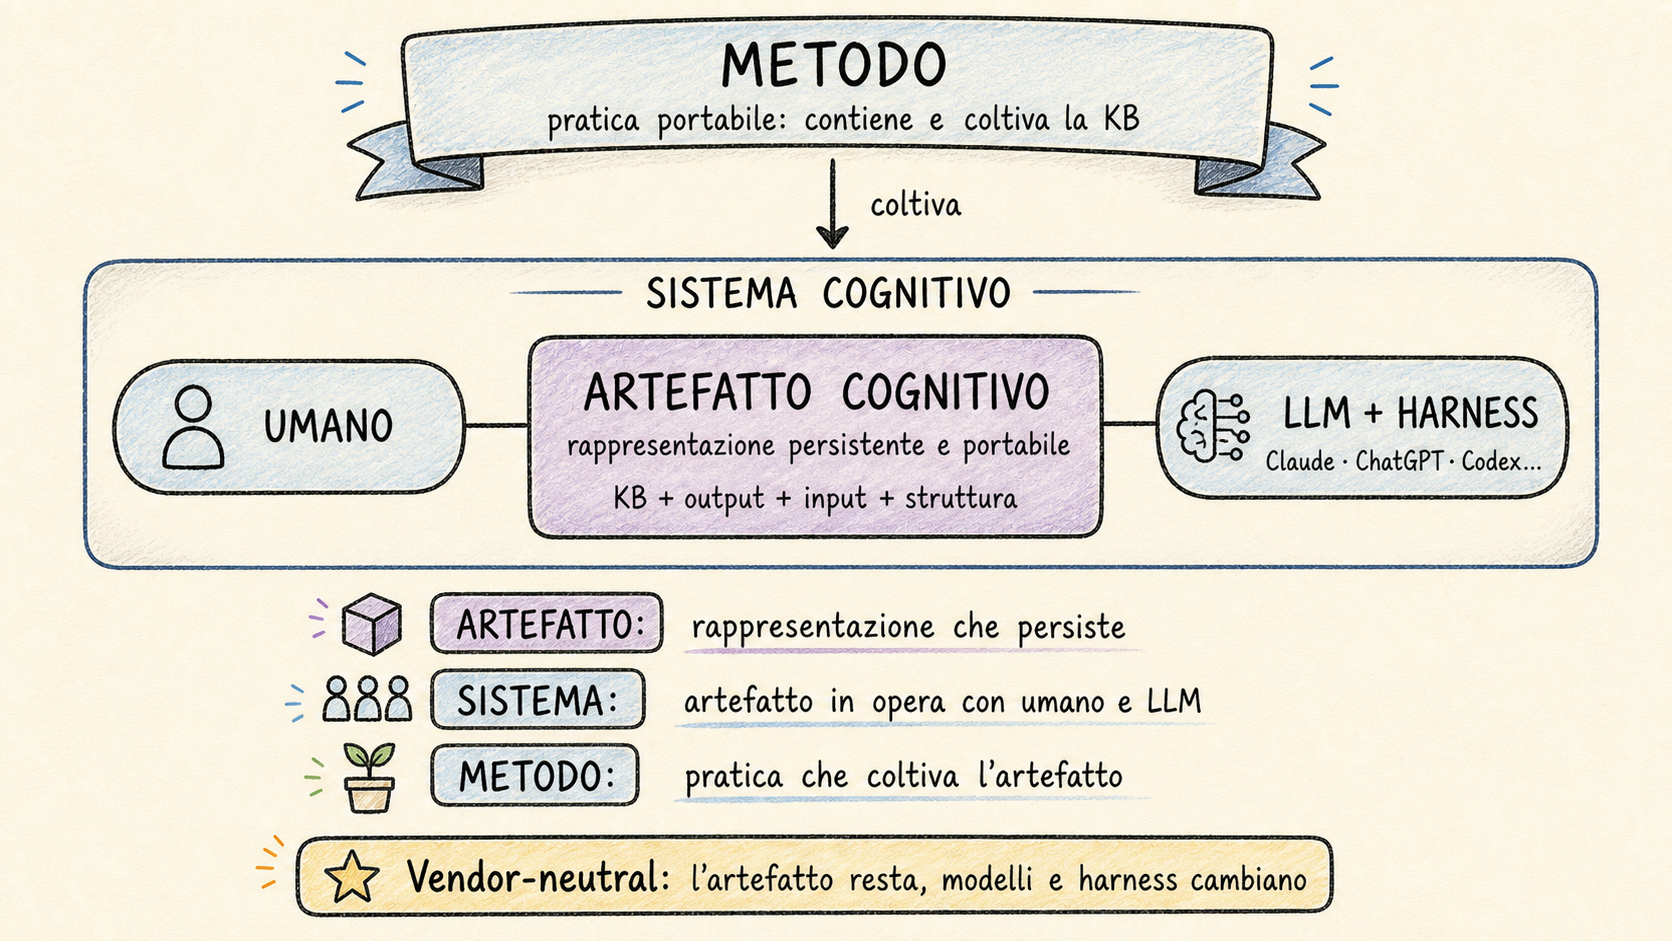
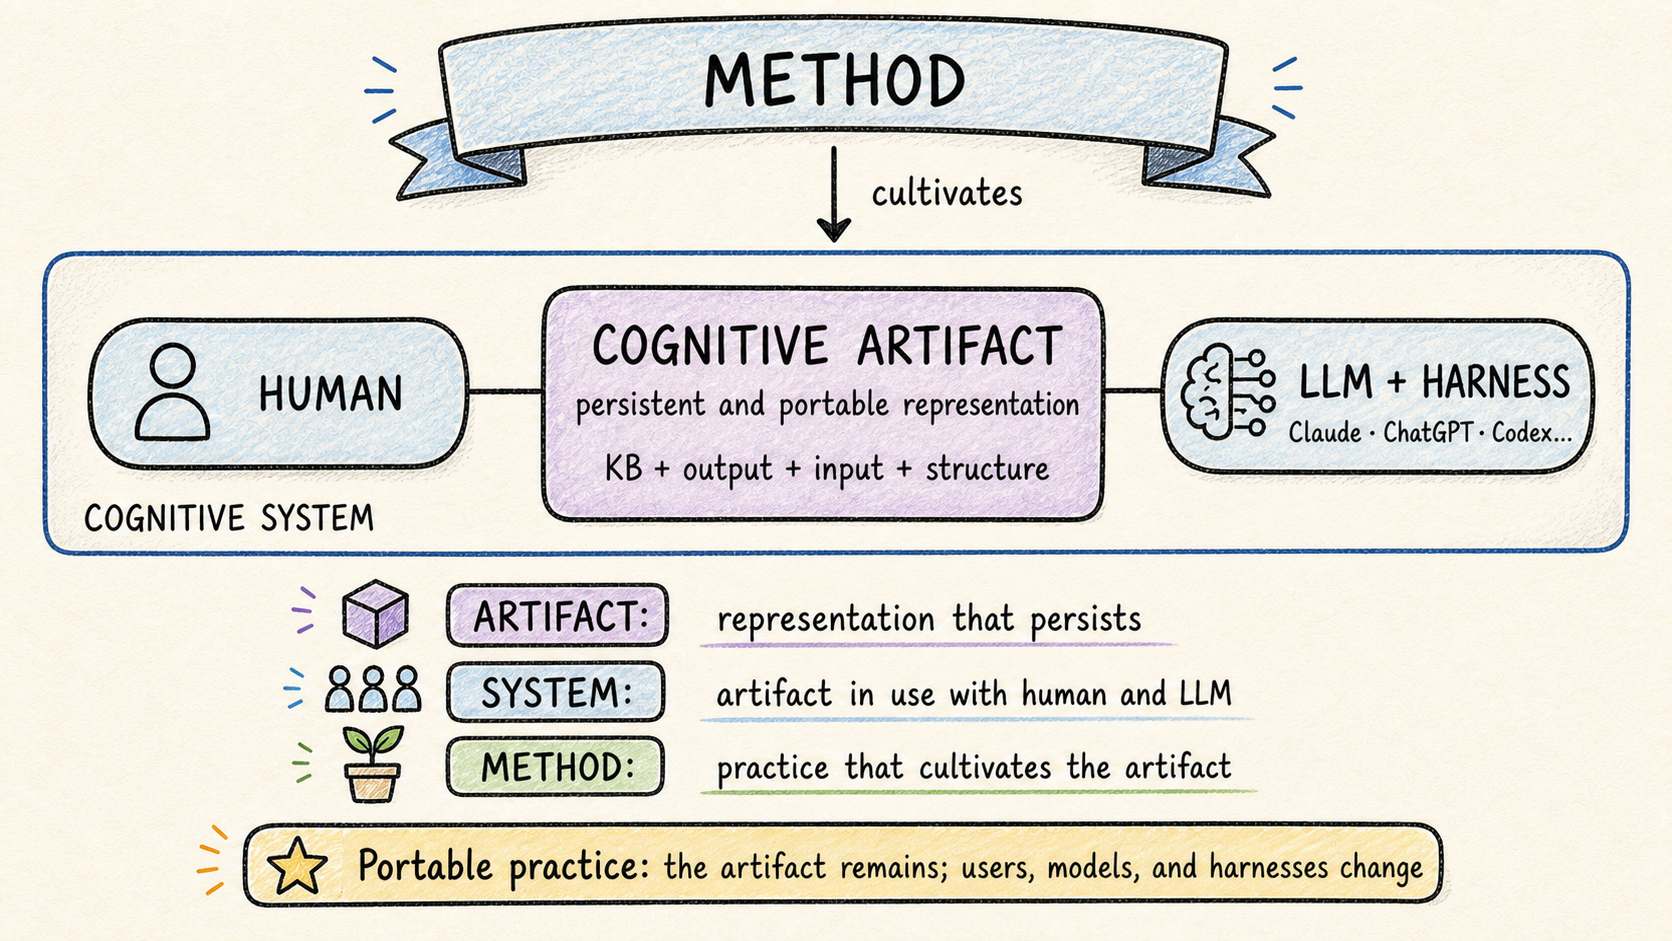
refactor(presentation): il deck diventa vista Interpretazioni

Changed region(s): [[0.0, 0.0, 0.9952, 0.9862]]

diff --git a/presentation/interpretations.html b/presentation/interpretations.html
@@ -70,7 +70,7 @@
       href="https://cdn.jsdelivr.net/npm/reveal.js@5.1.0/dist/theme/white.css"
       id="theme"
     />
-    <link rel="stylesheet" href="assets/deck.css" />
+    <link rel="stylesheet" href="assets/interpretations.css" />
   </head>
   <body>
     <div class="reveal">
@@ -122,6 +122,34 @@
             Il ciclo dell’azione (Norman)
           </h2>
         </section>
+        <section id="dal-ciclo-di-norman-al-metodo" class="slide level2">
+          <h2>Dal ciclo di Norman al metodo</h2>
+          <ul>
+            <li>
+              i poli non si eseguono: lo <strong>scopo</strong> motiva, il
+              <strong>mondo</strong> è ritagliato dall’artefatto per rilevanza
+            </li>
+            <li>
+              sei atti, sei superfici versionate: piani, compiti, prescrizioni ·
+              percezioni, interpretazioni, confronti
+            </li>
+            <li>
+              a ogni stadio l’umano ispeziona e l’LLM rientra senza ricostruire
+            </li>
+            <li>
+              superfici versionate: più trasparenza, più controllo, meno
+              ricostruzione implicita
+            </li>
+            <li>
+              il riflessivo da solo non muove: l’output deve arrivare al
+              viscerale
+            </li>
+            <li>
+              il viscerale da solo è cieco e deve avere il riflessivo che lo
+              guida
+            </li>
+          </ul>
+        </section>
         <section
           id="la-rilettura-del-metodo"
           class="slide level2 img"
@@ -138,24 +166,13 @@
             La rilettura del metodo
           </h2>
         </section>
-        <section id="dal-ciclo-di-norman-al-metodo" class="slide level2">
-          <h2>Dal ciclo di Norman al metodo</h2>
+        <section id="lannidamento-dei-due-cicli" class="slide level2">
+          <h2>L’annidamento dei due cicli</h2>
           <ul>
-            <li>
-              i poli non si eseguono: lo <strong>scopo</strong> motiva, il
-              <strong>mondo</strong> è ritagliato dall’artefatto per rilevanza
-            </li>
-            <li>
-              sei atti, sei superfici versionate: piani, compiti, prescrizioni ·
-              percezioni, interpretazioni, confronti
-            </li>
-            <li>
-              a ogni stadio l’umano ispeziona e l’LLM rientra senza ricostruire
-            </li>
-            <li>
-              il riflessivo da solo non muove: l’output deve arrivare al
-              viscerale — <em>attractive things work better</em>
-            </li>
+            <li>L’esecuzione è l’output dell’artefatto</li>
+            <li>La valutazione è l’input dell’artefatto</li>
+            <li>il ciclo di sviluppo costruisce l’artefatto</li>
+            <li>il ciclo runtime agisce invece sul dominio</li>
           </ul>
         </section>
         <section
@@ -174,25 +191,6 @@
             Cicli annidati
           </h2>
         </section>
-        <section id="le-quattro-dimensioni" class="slide level2">
-          <h2>Le quattro dimensioni</h2>
-          <ul>
-            <li><strong>agente</strong> — umano · LLM</li>
-            <li>
-              <strong>annidamento</strong> — sviluppo (costruisce l’artefatto) ·
-              runtime (agisce sul dominio)
-            </li>
-            <li><strong>livello</strong> — macchina · decisione · azione</li>
-            <li>
-              <strong>lato del cappio</strong> — output / esecuzione · input /
-              valutazione
-            </li>
-          </ul>
-          <p>
-            La matrice è la lente per confrontare i domini: cosa c’è, cosa manca
-            perché non serve, cosa manca ma servirebbe.
-          </p>
-        </section>
         <section
           id="sviluppo-del-metodo"
           class="slide level2 img"
@@ -209,13 +207,18 @@
             Sviluppo del metodo
           </h2>
         </section>
-        <section id="il-deck-rivela-i-nodi-risolvono" class="slide level2 hero">
+        <section
+          id="le-interpretazioni-rivelano-i-nodi-risolvono"
+          class="slide level2 hero"
+        >
           <h2 class="hero">
-            Il deck <strong>rivela</strong>, i nodi <strong>risolvono</strong>
+            Le interpretazioni <strong>rivelano</strong>, i nodi
+            <strong>risolvono</strong>
           </h2>
           <p>
-            Le tensioni affiorano qui, si chiudono nei nodi — la fonte di verità
-            — e poi il deck si ri-deriva.
+            Le tensioni affiorano nelle interpretazioni, si chiudono nei nodi
+            della knowledge base — la fonte di verità — e poi le interpretazioni
+            si ri-derivano.
           </p>
         </section>
       </div>

diff --git a/presentation/assets/system-image.css b/presentation/assets/system-image.css
@@ -200,7 +200,7 @@ h2 {
 }
 
 .cycle-card,
-.deck-card,
+.view-card,
 .task-item,
 .world-item {
   background: var(--panel);
@@ -226,7 +226,7 @@ h2 {
 .cycle-card small,
 .task-meta,
 .world-note,
-.deck-card p,
+.view-card p,
 .task-item p {
   color: var(--muted);
 }
@@ -240,22 +240,22 @@ h2 {
   text-transform: uppercase;
 }
 
-.deck-band {
+.view-band {
   background: var(--soft);
   border-block: 1px solid var(--line);
 }
 
-.deck-card {
+.view-card {
   display: grid;
   gap: 0.5rem;
   grid-template-columns: minmax(0, 1fr) auto;
 }
 
-.deck-card h2 {
+.view-card h2 {
   margin-bottom: 0.2rem;
 }
 
-.deck-link {
+.view-link {
   align-self: center;
   background: var(--accent);
   border-radius: 999px;
@@ -317,11 +317,11 @@ h2 {
   }
 
   .cycle-grid,
-  .deck-card {
+  .view-card {
     grid-template-columns: 1fr;
   }
 
-  .deck-link {
+  .view-link {
     justify-self: start;
   }
 }

diff --git a/presentation/index.html b/presentation/index.html
@@ -128,7 +128,8 @@
               <span class="cycle-key">i2</span>
               <strong>Interpretazioni</strong>
               <div class="dev-only slot-body">
-                <a class="slot-link" href="interpretations.html">deck</a
+                <a class="slot-link" href="interpretations.html"
+                  >vista Interpretazioni</a
                 ><small>La sintesi illustrata del metodo e dei nodi.</small>
               </div>
               <div class="runtime-only slot-body">

diff --git a/presentation/assets/reveal.css b/presentation/assets/reveal.css
@@ -1,5 +1,5 @@
 /* Stile base per le viste generate da build_views.py (tasks, verdict).
-   Il deck delle interpretazioni usa deck.css, coerente con le tavole sketchnote. */
+   La vista Interpretazioni usa interpretations.css, coerente con le tavole sketchnote. */
 :root {
   --r-main-font-size: 30px;
   --ink: #1a2230;

diff --git a/o3/build_system_image.py b/o3/build_system_image.py
@@ -68,7 +68,7 @@ SLOTS = {
         ),
         "i2": (
             "interpretations.html",
-            "deck",
+            "vista Interpretazioni",
             "La sintesi illustrata del metodo e dei nodi.",
         ),
         "i1": (

diff --git a/i2/metodo-in-sintesi.md b/i2/metodo-in-sintesi.md
@@ -10,28 +10,28 @@ ciclo: dev
 
 ## Il ciclo dell'azione (Norman) {.img data-background-image="../i2/action-cycle-norman.png" data-background-size="contain" data-background-color="#fefaea"}
 
-## La rilettura del metodo {.img data-background-image="../i2/action-cycle-method.png" data-background-size="contain" data-background-color="#fefbea"}
-
 ## Dal ciclo di Norman al metodo
 
 - i poli non si eseguono: lo **scopo** motiva, il **mondo** è ritagliato dall'artefatto per rilevanza
 - sei atti, sei superfici versionate: piani, compiti, prescrizioni · percezioni, interpretazioni, confronti
 - a ogni stadio l'umano ispeziona e l'LLM rientra senza ricostruire
-- il riflessivo da solo non muove: l'output deve arrivare al viscerale — _attractive things work better_
+- superfici versionate: più trasparenza, più controllo, meno ricostruzione implicita
+- il riflessivo da solo non muove: l'output deve arrivare al viscerale
+- il viscerale da solo è cieco e deve avere il riflessivo che lo guida
+
+## La rilettura del metodo {.img data-background-image="../i2/action-cycle-method.png" data-background-size="contain" data-background-color="#fefbea"}
+
+## L'annidamento dei due cicli
+
+- L'esecuzione è l'output dell'artefatto
+- La valutazione è l'input dell'artefatto
+- il ciclo di sviluppo costruisce l'artefatto
+- il ciclo runtime agisce invece sul dominio
 
 ## Cicli annidati {.img data-background-image="../i2/nested-cycles.png" data-background-size="contain" data-background-color="#fcf6e3"}
 
-## Le quattro dimensioni
-
-- **agente** — umano · LLM
-- **annidamento** — sviluppo (costruisce l'artefatto) · runtime (agisce sul dominio)
-- **livello** — macchina · decisione · azione
-- **lato del cappio** — output / esecuzione · input / valutazione
-
-La matrice è la lente per confrontare i domini: cosa c'è, cosa manca perché non serve, cosa manca ma servirebbe.
-
 ## Sviluppo del metodo {.img data-background-image="../i2/method-development-loop.png" data-background-size="contain" data-background-color="#fdf8e5"}
 
-## Il deck **rivela**, i nodi **risolvono** {.hero}
+## Le interpretazioni **rivelano**, i nodi **risolvono** {.hero}
 
-Le tensioni affiorano qui, si chiudono nei nodi — la fonte di verità — e poi il deck si ri-deriva.
+Le tensioni affiorano nelle interpretazioni, si chiudono nei nodi della knowledge base — la fonte di verità — e poi le interpretazioni si ri-derivano.

diff --git a/kb/action-cycle-matrix.md b/kb/action-cycle-matrix.md
@@ -54,7 +54,7 @@ I due cicli si distinguono unicamente per _cosa sia il loro Mondo_ in fondo (`ne
 - **Specify · o2 — S**: `o2/` dà la specifica concreta dei task elencati in `plan`, pronta a essere affinata e poi eseguita — o corretta quando gli obiettivi interni e le relazioni con gli altri task vengono definiti meglio.
 - **Perform · o3 — S**: il commit / l'edit ai nodi `kb/` e gli esecutori in `o3/` sono l'atto versionato sull'artefatto; è l'atto più reale del ciclo e modifica il Mondo-dev da cui passa la cucitura, ma non coincide con la macchina che il runtime esegue.
 - **Perceive · i1 — S**: `o3/kb_tools.py` via `/kb-review` cattura il segnale sull'artefatto — link rotti, orfani, copertura del catalogo, audit «45 nodi, 0 link rotti» — valenza-neutro.
-- **Interpret · i2 — D**: il deck `i2/metodo-in-sintesi.md` è l'auto-interpretazione dello sviluppo — la sintesi illustrata del metodo, dei nodi e dell'architettura dell'artefatto: **i2-dev** (e o2-dev quando lo si usa come vista di decisione sul metodo). La rilettura a freddo del gate ha **ribaltato la riassegnazione "a caldo" al runtime**: il deck rilegge il Mondo-dev (i nodi del metodo), non i quattro domini, quindi è dev, non runtime — e l'indice `i2/interpretations.md` già lo classifica così. D e non S perché la sua derivazione non è disciplinata (è `bozza`, e i deck driftano se non ri-generati: è il presidio di `cognitive-fidelity`).
+- **Interpret · i2 — D**: `i2/metodo-in-sintesi.md` è l'auto-interpretazione dello sviluppo — la sintesi illustrata del metodo, dei nodi e dell'architettura dell'artefatto: **i2-dev** (e o2-dev quando lo si usa come vista di decisione sul metodo). La rilettura a freddo del gate ha **ribaltato la riassegnazione "a caldo" al runtime**: la sintesi i2 rilegge il Mondo-dev (i nodi del metodo), non i quattro domini, quindi è dev, non runtime — e l'indice `i2/interpretations.md` già lo classifica così. D e non S perché la sua derivazione non è disciplinata (è `bozza`, e le viste derivate driftano se non ri-generate: è il presidio di `cognitive-fidelity`).
 - **Compare · i3 — S**: i fili in `i3/`, qualificati esplicitamente i3-sviluppo; la migrazione a stato-per-filo aggiornato in place ne è la prima istanza canonica reale.
 - **Mondo (polo) — S**: l'artefatto stesso, dichiarato Mondo di sviluppo nel README. **È anche la macchina del ciclo runtime — qui passa la cucitura.**
 
@@ -62,34 +62,34 @@ I due cicli si distinguono unicamente per _cosa sia il loro Mondo_ in fondo (`ne
 
 - **Goal (polo) — S**: il ciclo runtime ha obiettivi costitutivi reali, distribuiti nell'artefatto più che raccolti in un goal-artefatto unico — portabilità, indipendenza dal modello, adattabilità a domini molto diversi (e quindi flessibilità), meccanismi di autocorrezione, rigore delle fonti, il pavimento teorico su cui il metodo poggia. Il polo è ben costituito ai bordi (un polo si costituisce, non si esegue); per `method` è più ricco del Goal-dev. La ripartizione tra Goal-runtime e Goal-dev è ora sciolta in `development-goal`: al runtime gli obiettivi costitutivi del dominio (questi), al dev la posizione auspicata lungo le dimensioni comuni.
 - **Plan · o1 — vuoto (gap)**: la pianificazione **top-down** — come gli artefatti adottanti dovrebbero diventare — non esiste. A differenza degli altri vuoti non è legittimo-per-design: è l'arco che il principio «`metodo` non orchestra task sui adottanti» ha finora negato, e che il gate trova **da costruire** (l'esecuzione top-down ha pari dignità della valutazione bottom-up; la sua assenza è sovra-esposizione del dal-basso). È il vero buco del ciclo runtime.
-- **Specify · o2 — D**: la superficie o2-runtime è l'**osservatorio sugli adottanti** — la vista comparativa cross-repo che orienta le decisioni sul canone. Esiste come **prima istanza** (`i2/baricentro-kb-adottanti.md`, che ha già orientato una decisione reale: la prescrizione baricentro), ma non è ancora una superficie stabile e mantenuta che copra i quattro domini su tutti gli archi: nascente, quindi D. (Non il deck `metodo-in-sintesi.md`, che è i2/o2-**dev**.)
+- **Specify · o2 — D**: la superficie o2-runtime è l'**osservatorio sugli adottanti** — la vista comparativa cross-repo che orienta le decisioni sul canone. Esiste come **prima istanza** (`i2/baricentro-kb-adottanti.md`, che ha già orientato una decisione reale: la prescrizione baricentro), ma non è ancora una superficie stabile e mantenuta che copra i quattro domini su tutti gli archi: nascente, quindi D. (Non `metodo-in-sintesi.md`, che è i2/o2-**dev**.)
 - **Perform · o3 — S**: `o3/` è il canale o3 reale e canonizzato in `project-structure`; runbook reali vi sono transitati (il runbook d'atrio). Oggi senza prescrizioni attive, ma **ha già funzionato**: S per capacità reale, non per pienezza istantanea.
 - **Perceive · i1 — S**: `i1/` è il canale i1 reale, con un segnale catturato (`adottanti-pianificano-il-canone-in-plan.md`), valenza-neutro. Ha già funzionato: stesso metro di o3.
-- **Interpret · i2 — D**: l'interpretazione del Mondo-runtime è l'**osservatorio** — la rilettura comparativa dei quattro adottanti. Ha la sua **prima istanza** (`i2/baricentro-kb-adottanti.md`, i2-runtime: legge i cataloghi `kb/` dei domini, non i nodi del metodo) più i ledger `method-review` come materiale grezzo. D perché è una sola lettura, non un osservatorio stabile e periodico. La call A "a caldo" (il deck è i2-runtime) è **ribaltata**: il deck interpreta il metodo, non i domini — la deriva non esisteva, era un'assegnazione sbagliata. Segnare S qui sarebbe la simmetria-compiacente che la matrice esiste per prevenire.
+- **Interpret · i2 — D**: l'interpretazione del Mondo-runtime è l'**osservatorio** — la rilettura comparativa dei quattro adottanti. Ha la sua **prima istanza** (`i2/baricentro-kb-adottanti.md`, i2-runtime: legge i cataloghi `kb/` dei domini, non i nodi del metodo) più i ledger `method-review` come materiale grezzo. D perché è una sola lettura, non un osservatorio stabile e periodico. La call A "a caldo" (`metodo-in-sintesi.md` è i2-runtime) è **ribaltata**: la sintesi i2 del metodo interpreta il metodo, non i domini — la deriva non esisteva, era un'assegnazione sbagliata. Segnare S qui sarebbe la simmetria-compiacente che la matrice esiste per prevenire.
 - **Compare · i3 — D**: la valutazione-osservatorio — confrontare la fotografia dei quattro domini contro gli obiettivi-runtime — è inquadrata da `adopter-comparison` (la lente) e vive in parte nei fili adottanti di `i3/`, ma non è materializzata come verdetto-runtime a sé. Presente, sparsa.
 - **Mondo (polo) — S**: i progetti adottanti (`nixos`, `bi`, `economia`, `salute`), dichiarati Mondo runtime nel README; reali, distinti e raggiunti via symlink.
 
-Conteggio `metodo`, 16 celle: **11 S, 4 D, 1 vuoto, 0 F** (dev: 7 S, 1 D; runtime: 4 S, 3 D, 1 vuoto). Zero forzati, ma il dato che parla è la _forma_: le quattro D segnano gli archi immaturi — incluso l'**interno runtime**, che la rilettura a freddo ha ricondotto da pieno (il deck) a nascente (l'osservatorio, una sola istanza); l'unico vuoto è il **vero gap** runtime-o1 (il protocollo top-down). Il Goal-dev è risalito da D a S una volta articolato in `development-goal`; resta D nel dev solo il deck (i2-dev), dove la disciplina di derivazione è il limite.
+Conteggio `metodo`, 16 celle: **11 S, 4 D, 1 vuoto, 0 F** (dev: 7 S, 1 D; runtime: 4 S, 3 D, 1 vuoto). Zero forzati, ma il dato che parla è la _forma_: le quattro D segnano gli archi immaturi — incluso l'**interno runtime**, che la rilettura a freddo ha ricondotto da pieno (la sintesi i2 del metodo) a nascente (l'osservatorio, una sola istanza); l'unico vuoto è il **vero gap** runtime-o1 (il protocollo top-down). Il Goal-dev è risalito da D a S una volta articolato in `development-goal`; resta D nel dev solo `metodo-in-sintesi.md` (i2-dev), dove la disciplina di derivazione è il limite.
 
 ### I due cicli, la cucitura e le asimmetrie reali
 
 Il riempimento, **riletto a freddo**, rivede sia la prima lettura sia il ribaltamento "a caldo". Il ciclo runtime di `metodo` è un ciclo genuino con entrambi gli archi, ma il suo **interno è nascente**, non pieno. Le due letture:
 
-- **Call A — ribaltata.** Il deck (`i2/metodo-in-sintesi.md`) non è i2/o2 del runtime: è **i2/o2-dev**, la sintesi che rilegge il Mondo-dev (i nodi del metodo). L'assegnazione al runtime era la cella che la simmetria aveva fabbricato; l'indice `i2/interpretations.md`, contro lo stato reale, già lo classifica i2-dev. Il vero i2/o2-runtime è l'**osservatorio sugli adottanti** (`i2/baricentro-kb-adottanti.md`, prima istanza), genuinamente nascente: D non perché in deriva, ma perché è una sola lettura, non una superficie stabile.
+- **Call A — ribaltata.** `i2/metodo-in-sintesi.md` non è i2/o2 del runtime: è **i2/o2-dev**, la sintesi che rilegge il Mondo-dev (i nodi del metodo). L'assegnazione al runtime era la cella che la simmetria aveva fabbricato; l'indice `i2/interpretations.md`, contro lo stato reale, già lo classifica i2-dev. Il vero i2/o2-runtime è l'**osservatorio sugli adottanti** (`i2/baricentro-kb-adottanti.md`, prima istanza), genuinamente nascente: D non perché in deriva, ma perché è una sola lettura, non una superficie stabile.
 - **Call B — confermata.** L'**arco top-down del runtime** (o1) è il vero buco — non un vuoto-per-design ma un vuoto-gap, negato finora dal principio «`metodo` non orchestra task sui adottanti». L'arco è ora **scoccato end-to-end una volta** (prescrizione baricentro → `method-review` degli adottanti → recepimento), prova che è percorribile; ma il **protocollo** o1-runtime — l'audit periodico, non il micromanagement delle code — resta da costruire. Quindi o1 resta vuoto-gap.
 
 Resta vera la **cucitura di output** (la canonica di `nested-cycles`): il Mondo-dev — l'artefatto — _è_ la macchina del runtime. Ciò che lo sviluppo costruisce è esattamente ciò che gli adottanti eseguono via symlink; l'o3-runtime (`o3/`) propaga le modifiche a quella macchina. Ma non è l'unico legame: i due cicli condividono il polo Goal (obiettivi in larga parte runtime) e si parlano in entrambi i versi.
 
-Le asimmetrie reali, a freddo: **dev-i2 è il deck** (presente ma a derivazione non disciplinata, D), mentre **l'i2/o2-runtime è l'osservatorio nascente** (una istanza, D); e soprattutto **runtime-o1 il buco** — l'arco top-down con la macchina d'osservazione ancora da costruire.
+Le asimmetrie reali, a freddo: **dev-i2 è la sintesi illustrata del metodo** (presente ma a derivazione non disciplinata, D), mentre **l'i2/o2-runtime è l'osservatorio nascente** (una istanza, D); e soprattutto **runtime-o1 il buco** — l'arco top-down con la macchina d'osservazione ancora da costruire.
 
 ### Verdetto-gate
 
-L'annidamento a 16 celle **regge per `metodo`** — questo è fermo, e ratificato a freddo: non una cucitura su mezzo ciclo, ma **due cicli genuini** (11 S, 4 D, 1 vuoto, 0 F). Ma il verdetto sano **non è «due cicli pieni»**: è **«due cicli genuini, con l'interno runtime nascente/da costruire»**. La prima stesura sottostimava il runtime (membrana su interno vuoto); il ribaltamento "a caldo" lo sovrastimava (interno pieno via deck); la rilettura a freddo lo coglie per quello che è: archi reali, interno immaturo.
+L'annidamento a 16 celle **regge per `metodo`** — questo è fermo, e ratificato a freddo: non una cucitura su mezzo ciclo, ma **due cicli genuini** (11 S, 4 D, 1 vuoto, 0 F). Ma il verdetto sano **non è «due cicli pieni»**: è **«due cicli genuini, con l'interno runtime nascente/da costruire»**. La prima stesura sottostimava il runtime (membrana su interno vuoto); il ribaltamento "a caldo" lo sovrastimava (interno pieno via sintesi i2 del metodo); la rilettura a freddo lo coglie per quello che è: archi reali, interno immaturo.
 
 - **Regge la struttura**: zero celle forzate; entrambi i cicli hanno poli costituiti e membrana fisica (o3/i1 runtime).
-- **L'interno runtime è nascente, non pieno**: l'i2/o2-runtime è l'osservatorio a una sola istanza (`baricentro-kb-adottanti.md`), non il deck (che è i2-dev); l'i3-runtime è sparso; e **runtime-o1 è il buco** — l'arco top-down scoccato una volta ma senza protocollo d'audit.
+- **L'interno runtime è nascente, non pieno**: l'i2/o2-runtime è l'osservatorio a una sola istanza (`baricentro-kb-adottanti.md`), non `metodo-in-sintesi.md` (che è i2-dev); l'i3-runtime è sparso; e **runtime-o1 è il buco** — l'arco top-down scoccato una volta ma senza protocollo d'audit.
 
-**Conseguenza per la presentazione.** Una rappresentazione a **due cicli** è _giustificata_ (l'errore non era pensarli due). Ma la home va disegnata sull'interno **nascente**: l'i2/o2-runtime è l'**osservatorio** (una istanza, da far crescere), il deck è **i2-dev** (non un livello del runtime), **runtime-o1 muted** come gap dichiarato, la cucitura di output al polo Mondo. La mossa di canone «rivedere "non orchestra"» (call B), suffragata da un arco scoccato per intero, è ora **incisa nel `README`** (e in `cognitive-artifact-design`, `method-development`) dalla chirurgia dei giganti: il top-down runtime ha pari dignità del bottom-up, distinto dal micromanagement della coda adottante.
+**Conseguenza per la presentazione.** Una rappresentazione a **due cicli** è _giustificata_ (l'errore non era pensarli due). Ma la home va disegnata sull'interno **nascente**: l'i2/o2-runtime è l'**osservatorio** (una istanza, da far crescere), la sintesi illustrata del metodo è **i2-dev** (non un livello del runtime), **runtime-o1 muted** come gap dichiarato, la cucitura di output al polo Mondo. La mossa di canone «rivedere "non orchestra"» (call B), suffragata da un arco scoccato per intero, è ora **incisa nel `README`** (e in `cognitive-artifact-design`, `method-development`) dalla chirurgia dei giganti: il top-down runtime ha pari dignità del bottom-up, distinto dal micromanagement della coda adottante.
 
 ### Mappa-sorgente (b)
 
@@ -102,7 +102,7 @@ Ciclo di sviluppo:
 - o2-dev → `o2/`
 - o3-dev → git commit / l'edit ai nodi `kb/` / esecutori in `o3/`
 - i1-dev → `o3/kb_tools.py` (`/kb-review`: audit, backlink, copertura)
-- i2-dev → `i2/metodo-in-sintesi.md` (il deck: sintesi del metodo; o2-dev quando è vista di decisione)
+- i2-dev → `i2/metodo-in-sintesi.md` (sintesi del metodo; o2-dev quando è vista di decisione)
 - i3-dev → fili in `i3/`
 - Mondo-dev → l'artefatto stesso — **= macchina del runtime (cucitura)**
 

diff --git a/i2/interpretations.md b/i2/interpretations.md
@@ -4,7 +4,7 @@ Indice della collezione `i2/`: lo stadio **i2** (Interpret) del ciclo — le sin
 
 ## Contenuti
 
-- le cinque tavole sketchnote — le slide grafiche del deck, una tensione per tavola: [artifact-system-method.png](artifact-system-method.png) (ontologia artefatto/sistema/metodo), [action-cycle-norman.png](action-cycle-norman.png) (il ciclo dell'azione di Norman), [action-cycle-method.png](action-cycle-method.png) (la rilettura del metodo: sei stadi versionati), [nested-cycles.png](nested-cycles.png) (annidamento dev/runtime), [method-development-loop.png](method-development-loop.png) (sviluppo bottom-up/top-down)
-- [metodo-in-sintesi.md](metodo-in-sintesi.md) — la sorgente del deck: sequenzia le cinque tavole con poche slide d'appoggio a elenchi, minimaliste e coerenti con lo stile delle tavole (interpretazione rivolta al metodo, i2-dev).
+- le cinque tavole sketchnote — le slide grafiche della vista Interpretazioni, una tensione per tavola: [artifact-system-method.png](artifact-system-method.png) (ontologia artefatto/sistema/metodo), [action-cycle-norman.png](action-cycle-norman.png) (il ciclo dell'azione di Norman), [action-cycle-method.png](action-cycle-method.png) (la rilettura del metodo: sei stadi versionati), [nested-cycles.png](nested-cycles.png) (annidamento dev/runtime), [method-development-loop.png](method-development-loop.png) (sviluppo bottom-up/top-down)
+- [metodo-in-sintesi.md](metodo-in-sintesi.md) — la sorgente della vista Interpretazioni: sequenzia le cinque tavole con poche slide d'appoggio a elenchi, minimaliste e coerenti con lo stile delle tavole (interpretazione rivolta al metodo, i2-dev).
 - [baricentro-kb-adottanti.md](baricentro-kb-adottanti.md) — dove sta il contenuto delle KB dei quattro adottanti: la tipologia G/M/A (Goal/ought, Mondo/is, Macchina) e il baricentro di ciascun repo come diagnosi. Prima istanza dell'osservatorio cross-repo, **i2-runtime** (rilegge gli adottanti, non i nodi del metodo); precede il nodo `kb/` sulla tipologia-contenuto.
-- `../presentation/interpretations.html` — deck Reveal.js generato dalla sorgente markdown con `../o3/build-presentation.sh`, apribile direttamente dal checkout; gli asset stanno in `../presentation/assets/`. Il PDF per stampa/distribuzione esce dall'export del deck e non è versionato (cfr. [view](../kb/view.md) per build e condivisione).
+- `../presentation/interpretations.html` — vista Reveal.js generata dalla sorgente markdown con `../o3/build-presentation.sh`, apribile direttamente dal checkout; gli asset stanno in `../presentation/assets/`. Il PDF per stampa/distribuzione esce dall'export della vista e non è versionato (cfr. [view](../kb/view.md) per build e condivisione).

diff --git a/kb/view.md b/kb/view.md
@@ -9,9 +9,9 @@ del progetto senza diventare una seconda fonte di verità. È la cerniera o2/i2 
 metodo (cfr. `action-cycle`, sezione i2 micro/macro): o2 quando orienta una
 decisione, i2 quando viene letta per attribuire significato a ciò che sintetizza.
 
-Il deck Reveal è una forma concreta di view, adatta a una sintesi che si scorre.
+La vista Reveal a slide è una forma concreta di view, adatta a una sintesi che si scorre.
 Non è l'unica forma possibile. La forma segue la domanda (Karpathy): pagina
-markdown, tabella di confronto, deck di slide, grafico, canvas e home statica sono
+markdown, tabella di confronto, presentazione a slide, grafico, canvas e home statica sono
 forme alternative, scelte secondo cosa devono far capire o decidere.
 
 ## Vista derivata, mai seconda fonte
@@ -75,7 +75,7 @@ la condivisione, si chiude il processo e si rimuove l'eventuale regola temporane
 
 ## Provenienza bottom-up
 
-Il pattern è emerso in `bi`. Una prima soluzione serviva il deck permanentemente da
+Il pattern è emerso in `bi`. Una prima soluzione serviva la vista a slide permanentemente da
 due server e lo copiava con hook Git locali non versionati. Il rename
 `presentazione/` → `presentations/` (poi → `interpretations/`) ha rotto gli hook in
 silenzio. La soluzione finale non è stata rendere più complesso il deploy, ma

diff --git a/o1/plan.md b/o1/plan.md
@@ -19,9 +19,9 @@ i task e il loro stato di pianificazione.
 arriva un secondo utente su un adottante): allora la disciplina manuale non scala
 più e il task si attiva. Vedi `o2/enforcement-cucitura-canone.md`.
 
-La **revisione i2-macro della presentazione** (deck + home) è **chiusa**
+La **revisione i2-macro della presentazione** (vista Interpretazioni + home) è **chiusa**
 (2026-06-25): cicli annidati ridisegnati per contenimento, frecce del ciclo rese
-visibili (deck e home), slide «Sviluppo del metodo» a forma di Λ (risalita →
+visibili (vista Interpretazioni e home), slide «Sviluppo del metodo» a forma di Λ (risalita →
 apice → ridiscesa), «Approfondimento» rimossa; nessun residuo di
 KB-come-system-image. Resta il gap o1 che quel percorso i2 → i3 → o1 rifilava: il
 task **runtime-o1**.
@@ -74,7 +74,7 @@ cinque i README. Il round 1 della propagazione è **recepito dai quattro
 adottanti** via il loro `method-review` (`nixos`, `bi`, poi `salute` in `dcb08dc`
 e `economia` in `22e22ca`); la prescrizione esaurita è rimossa da
 `o3/`, la storia resta in Git. Lo **strato di presentazione** è
-chiuso: `deck` è stato scisso in `view`, `presentation/assets/` e `presentation/` sono materializzati,
+chiuso: la vista a slide è stata ricondotta a `view`, `presentation/assets/` e `presentation/` sono materializzati,
 le viste `interpretations`, `tasks` e `verdict` sono generate e versionate. Anche la
 **home della system image** è chiusa: `presentation/index.html` è generato, statico, offline e
 consuma README, Plan e le viste. Il cluster implementativo aperto dal gate è

diff --git a/README.md b/README.md
@@ -59,7 +59,7 @@ La root è l'atrio dell'artefatto: un `ls` ne dichiara l'anatomia, e l'anatomia 
 **Le due ali fuori dal ciclo** — trasversali agli stadi:
 
 - **[kb/](kb/kb.md)** — il nucleo di conoscenza formalizzata della system image; il catalogo è l'indice interno omonimo [`kb/kb.md`](kb/kb.md)
-- **[presentation/](presentation/)** — la superficie presentativa: `index.html` (la home della system image), il deck e le viste generate, gli asset condivisi
+- **[presentation/](presentation/)** — la superficie presentativa: `index.html` (la home della system image), le viste generate e gli asset condivisi
 
 **Register** — puntano _fuori_ dall'artefatto:
 
@@ -75,7 +75,7 @@ Il cruscotto di lavoro è la coppia [`o1/plan.md`](o1/plan.md) (lato esecuzione:
 - **Osservatorio cross-repo**: confronto periodico tra i progetti adottanti per leggere convergenze, drift, duplicazioni, lacune e specificità locali senza sostituirsi alla loro coda di lavoro.
 - **Strumenti comuni**: `o3/kb_tools.py` come backend portabile per audit strutturale, backlink, copertura del catalogo, migrazione, candidati terminologici e segnali generici sui progetti code-based. La triade operativa — `/kb-review`, `/tasks-review`, `/commit` — e la skill di allineamento `/method-review` vivono in `.claude/skills/` (con wrapper Codex in `.codex/skills/`): `metodo` fa dogfooding ed è la copia canonica che gli adottanti forkano.
 - **Manutenzione propria del metodo**: task in `o2/` solo quando riguardano questo repo, la sua presentazione, la coerenza dei nodi o una generalizzazione già emersa dai repo adottanti.
-- **Presentazione**: [`presentation/`](presentation/) raccoglie l'intera superficie presentativa. [`presentation/index.html`](presentation/index.html) è la home statica della system image, generata da `README.md` e `o1/plan.md` con `o3/build-system-image.sh`; apre il ciclo Goal/Plan/Specify/Compare/Interpret/World e punta alle viste. [`i2/`](i2/interpretations.md) è la collezione sorgente dello stadio i2; [`i2/metodo-in-sintesi.md`](i2/metodo-in-sintesi.md) ne è la sintesi principale — i diagrammi che reggono il metodo intero. Il `.md` è la fonte unica; `o3/build-presentation.sh` genera `presentation/interpretations.html`, la vista navigabile della collezione, come deck Reveal.js standalone apribile direttamente dal checkout. Lo stesso script genera `presentation/tasks.html` e `presentation/verdict.html`; gli asset comuni stanno in `presentation/assets/`. Il PDF per stampa/distribuzione (o3) esce dall'export del deck e non viene versionato.
+- **Presentazione**: [`presentation/`](presentation/) raccoglie l'intera superficie presentativa. [`presentation/index.html`](presentation/index.html) è la home statica della system image, generata da `README.md` e `o1/plan.md` con `o3/build-system-image.sh`; apre il ciclo Goal/Plan/Specify/Compare/Interpret/World e punta alle viste. [`i2/`](i2/interpretations.md) è la collezione sorgente dello stadio i2; [`i2/metodo-in-sintesi.md`](i2/metodo-in-sintesi.md) ne è la sintesi principale — i diagrammi che reggono il metodo intero. Il `.md` è la fonte unica; `o3/build-presentation.sh` genera `presentation/interpretations.html`, la vista navigabile a slide della collezione, apribile direttamente dal checkout. Lo stesso script genera `presentation/tasks.html` e `presentation/verdict.html`; gli asset comuni stanno in `presentation/assets/`. Il PDF per stampa/distribuzione (o3) esce dall'export della vista a slide e non viene versionato.
 
 ## Come collegare un nuovo progetto
 

diff --git a/i3/home-16-slot.md b/i3/home-16-slot.md
@@ -4,10 +4,10 @@ ciclo: dev
 
 # La home a 16 slot: tensione con `action-cycle-matrix` e propagazione aperta
 
-Il cluster di presentazione è esaurito (deck→`view`, `presentation/assets/`+viste in `presentation/`
+Il cluster di presentazione è esaurito (vista a slide→`view`, `presentation/assets/`+viste in `presentation/`
 materializzati, home rifatta 2026-06-30 come matrice annidata a 16 slot con switch
 dev/runtime; motore condiviso in `o3/build_system_image.py`, gli adottanti forkano
-la sola CONFIG). Il deck è stato ri-fondato (2026-07-04) su cinque tavole sketchnote
+la sola CONFIG). La vista Interpretazioni è stata ri-fondata (2026-07-04) su cinque tavole sketchnote
 più poche slide d'appoggio a elenchi: la sintesi ricca è uscita dalla sorgente (vive
 nei nodi), l'o2 raggiunge finalmente il viscerale — ma le tavole sono **asset raster
 statici**, non più diagrammi derivati dalla sorgente: se un nodo cambia il senso di